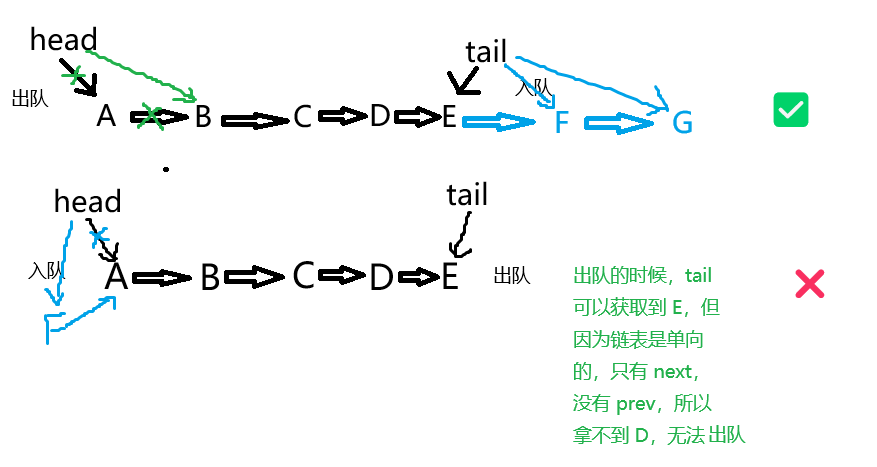
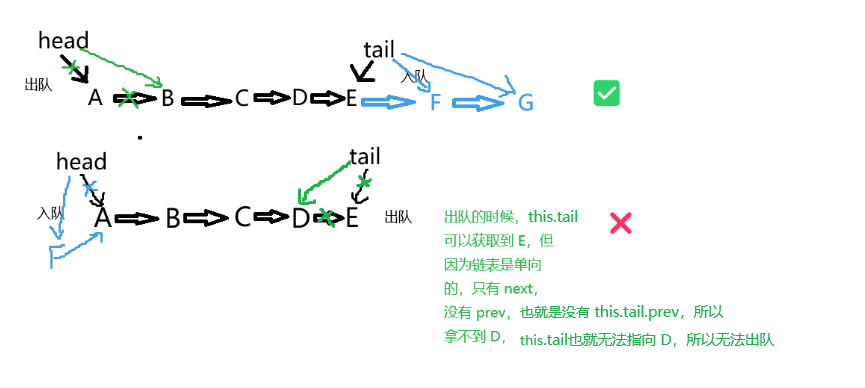
04-链表实现队列

diff --git a/docs/.vitepress/config.ts b/docs/.vitepress/config.ts
@@ -64,14 +64,15 @@ export default defineConfig({
           text: '【题目】用两个栈实现一个队列',
           collapsed: true,
           items: [
-            { text: '解题', link: '/algorithm/problems/3_用两个栈实现一个队列/1_解题' },
+            { text: '【数据结构】队列', link: '/algorithm/problems/3_用两个栈实现一个队列/1_【数据结构】队列' },
+            { text: '解题', link: '/algorithm/problems/3_用两个栈实现一个队列/2_解题' },
           ]
         },
         {
           text: '【题目】反转单向链表',
           collapsed: true,
           items: [
-            { text: '链表的概念', link: '/algorithm/problems/4_反转单向链表/1_链表的概念' },
+            { text: '【数据结构】链表', link: '/algorithm/problems/4_反转单向链表/1_【数据结构】链表' },
             { text: '解题', link: '/algorithm/problems/4_反转单向链表/2_解题' },
             { text: '【扩展】链表和数组，哪个实现队列更快', link: '/algorithm/problems/4_反转单向链表/3_【扩展】链表和数组，哪个实现队列更快' },
           ]

diff --git a/docs/algorithm/problems/4_反转单向链表/3_【扩展】链表和数组，哪个实现队列更快.md b/docs/algorithm/problems/4_反转单向链表/3_【扩展】链表和数组，哪个实现队列更快.md
@@ -1,4 +1,7 @@
-# 分析
+## 代码
+[代码](https://github.com/shuibuzhuo/algorithm-project/tree/master/src/algorithm/05_queue-using-linked-list)
+
+## 分析
 
 - 数组是连续存储，push 很快，shift 很慢
 - 链表是非连续存储，add 和 delete 都很快（但查找很慢）
@@ -10,6 +13,6 @@
 ![链表实现队列](./链表实现队列.png) <br>
 
 - 使用单向链表，但要同时记录 head 和 tail，因为要出队和入队
-- 链表实现队列的时候要从 tail 入队，head 出队，否则从 tail 出队的话，tail 上游的元素不好定位
+- 链表实现队列的时候要从 tail 入队，head 出队，否则从 tail 出队的话，因为链表是单向的，只能获取 next 元素，不能获取 prev 元素，会导致 tail 指针无法指向当前 tail 元素上游的元素
 ![链表实现队列的时候要从 tail 入队，head 出队](./链表实现队列的时候要从tail入队，head出队.png)
 - length 要实时记录，不可遍历链表去获取（遍历的话时间复杂度是 O(n) ）

diff --git a/docs/algorithm/problems/3_用两个栈实现一个队列/2_解题.md b/docs/algorithm/problems/3_用两个栈实现一个队列/2_解题.md
@@ -8,9 +8,6 @@
 
 ## 思路
 
-### 队列的特点：先进先出
-
-  <br>
 - add 方法：直接在 stack1 里去 push 一个元素<br>
 - delete 方法：
 

diff --git a/docs/algorithm/problems/3_用两个栈实现一个队列/1_【数据结构】队列.md b/docs/algorithm/problems/3_用两个栈实现一个队列/1_【数据结构】队列.md
@@ -1,0 +1,3 @@
+# 队列
+- 特点：先进先出
+- API： add、delete、length
